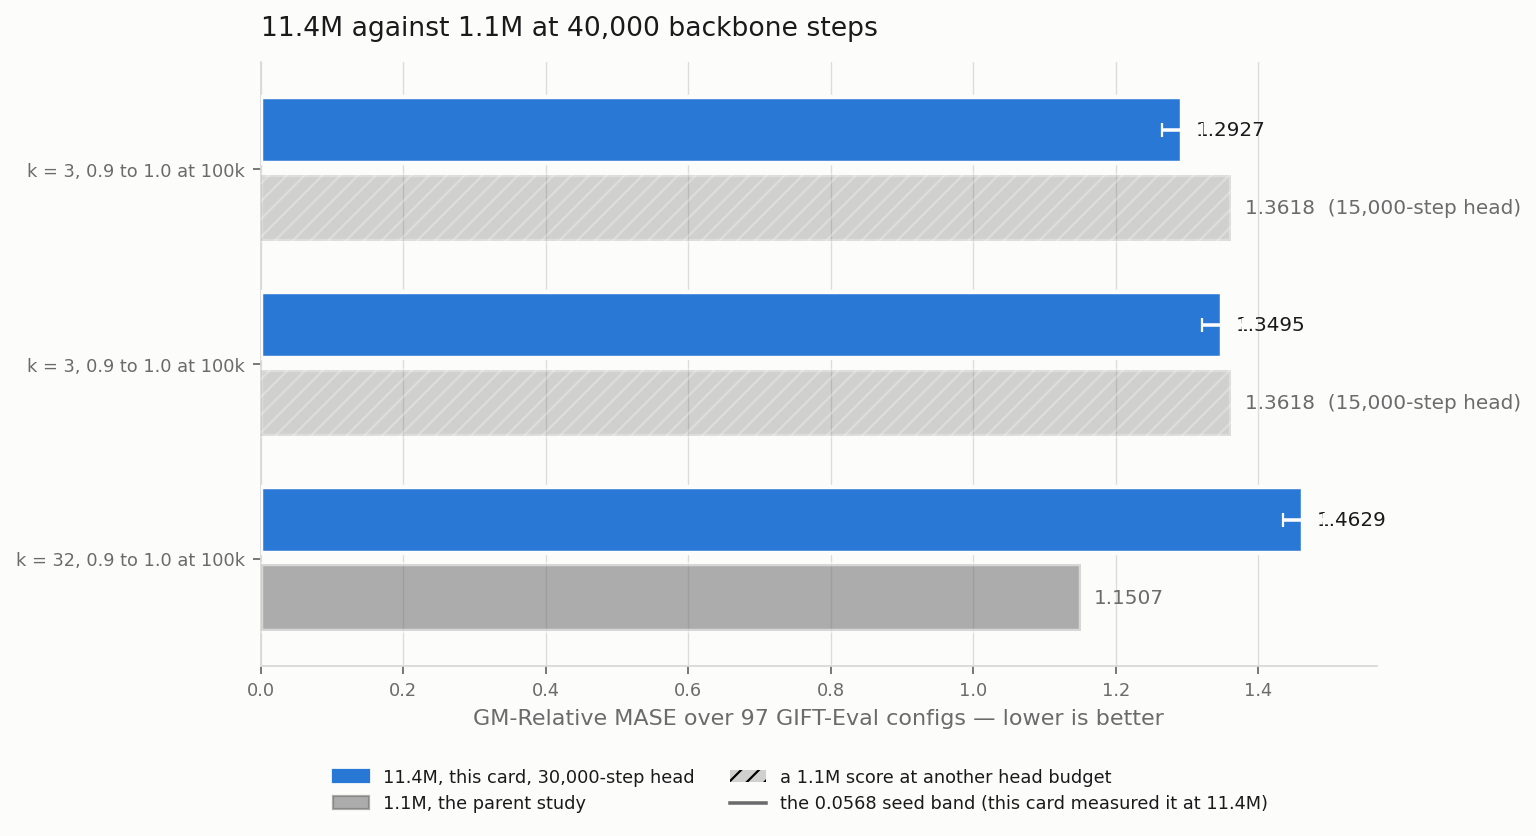
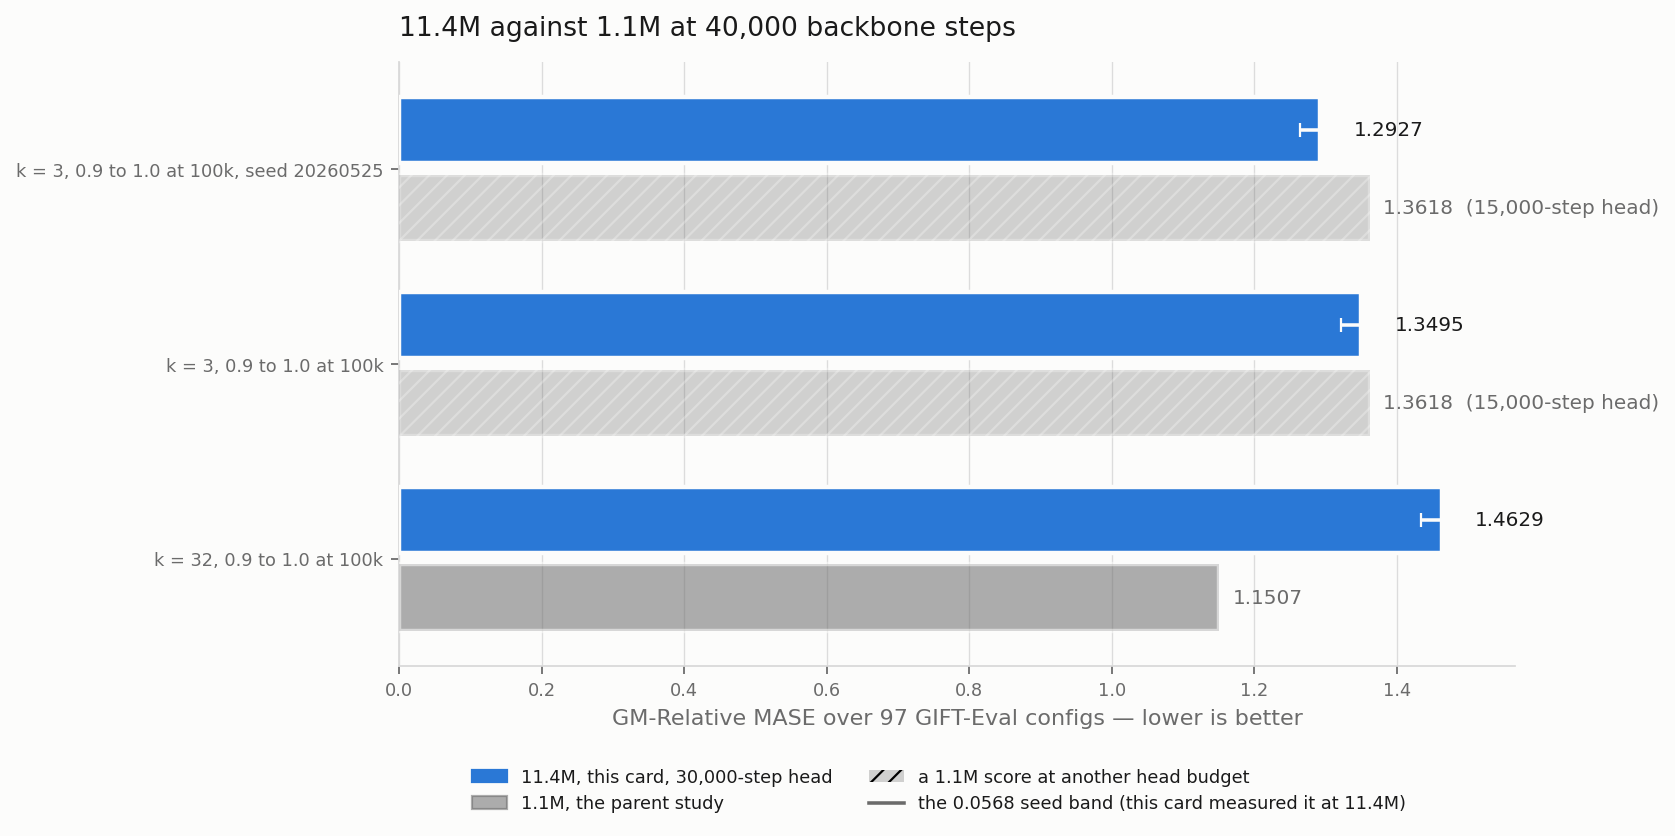
exp(#412): the rate bracket gets a figure, and a bar label names its seed
plot_rates.py draws the configuration-1 cell against the rate, with the
two 1e-3 seeds as a shaded pair. A rate arm inside that shade draws with
1e-3.

head_sweep.sh starts each head in the background. missing_heads.sh waits
for the CPU evaluation too, so a sweep that waits starts one arm every
4.6 hours.

queue_backbones.sh holds k32_r200_08, k8_r100_09 and k3_r100_09_lr17 on
gpu 0, largest memory need first.

diff --git a/reports/2026-09-06_moirai_small_size/scripts/plot_rates.py b/reports/2026-09-06_moirai_small_size/scripts/plot_rates.py
@@ -1,0 +1,112 @@
+#!/usr/bin/env python3
+"""The learning-rate bracket on configuration 1, at 40,000 backbone steps.
+
+WHY THIS FIGURE EXISTS. Every arm of this card trains at 1e-3, the Moirai
+recipe. The project does not use muP, and the trainer builds one AdamW group
+over all parameters, so a rate that fits `d_model` 64 need not fit 384. A size
+verdict taken at a rate that does not fit the width answers a question about
+the rate. Three arms move the rate alone and close that hole.
+
+HOW TO READ IT. The shaded band is the two seeds of configuration 1 at 1e-3,
+1.2927 and 1.3495. That pair is this card's seed band. A rate arm inside the
+shade draws with 1e-3. A rate arm below the shade beats it, and the report
+then repeats phase 1 at the winning rate.
+
+Usage:  plot_rates.py [--stop 40000] [--out plots/rates.png]
+"""
+from __future__ import annotations
+
+import argparse
+from pathlib import Path
+
+import matplotlib
+
+matplotlib.use("Agg")
+import matplotlib.pyplot as plt  # noqa: E402
+from matplotlib.lines import Line2D  # noqa: E402
+from matplotlib.patches import Patch  # noqa: E402
+
+import plot_style as S  # noqa: E402
+
+HERE = Path(__file__).resolve().parent
+STUDY = HERE.parent
+# The cell the bracket moves the rate on: configuration 1 and its repeat.
+BASE = ("k3_r100_09", "k3_r100_09b")
+
+
+def main():
+    p = argparse.ArgumentParser()
+    p.add_argument("--scores", default=str(STUDY / "results" / "scores.csv"))
+    p.add_argument("--arms", default=str(HERE / "arms.tsv"))
+    p.add_argument("--stop", type=int, default=S.STOP)
+    p.add_argument("--out", default=str(STUDY / "plots" / "rates.png"))
+    args = p.parse_args()
+
+    arms = {r["arm"]: r for r in S.read_arms(args.arms)}
+    scored = S.read_scores(args.scores, stop=args.stop)
+    band, band_src = S.effective_band(scored)
+
+    # Every arm of the configuration-1 cell that holds a score: the two 1e-3
+    # seeds and the rate arms. Nothing else shares the cell.
+    cell = [a for a, r in arms.items()
+            if r["k"] == "3" and r["reduce"] == "sum" and r["decay"] == "-"
+            and a in scored]
+    if not cell:
+        raise SystemExit(f"no configuration-1 arm holds a score at {args.stop}")
+    pair = sorted(scored[a] for a in BASE if a in scored)
+
+    fig, ax = plt.subplots(figsize=(8.4, 4.8))
+    fig.patch.set_facecolor(S.SURFACE)
+    ax.set_facecolor(S.SURFACE)
+
+    if len(pair) == 2:
+        ax.axhspan(pair[0], pair[1], color=S.MUTED, alpha=0.14, zorder=1)
+
+    xs, ys, tick = [], [], {}
+    for arm in cell:
+        rate = float(arms[arm]["lr"])
+        value = scored[arm]
+        xs.append(rate); ys.append(value)
+        # The tick reads the rate as `arms.tsv` writes it, not as `%g` prints
+        # a float. `1e-3` and `0.001` are one value and two labels.
+        tick[rate] = arms[arm]["lr"]
+        ax.errorbar(rate, value, yerr=band / 2, fmt="o", markersize=8,
+                    color=S.SERIES, ecolor=S.SERIES, elinewidth=1.4,
+                    capsize=4, zorder=3)
+        ax.annotate(f"{value:.4f}", (rate, value), xytext=(0, 13),
+                    textcoords="offset points", ha="center", fontsize=9,
+                    color=S.INK, zorder=4)
+
+    order = sorted(range(len(xs)), key=lambda i: xs[i])
+    ax.plot([xs[i] for i in order], [ys[i] for i in order], color=S.SERIES,
+            linewidth=1.6, alpha=0.55, zorder=2)
+
+    ax.set_xscale("log")
+    ax.set_xticks(sorted(set(xs)))
+    ax.set_xticklabels([tick[x] for x in sorted(set(xs))], fontsize=9)
+    ax.minorticks_off()
+    ax.set_xlabel("learning rate, one AdamW group over all parameters")
+    ax.set_ylabel("GM-Relative MASE — lower is better")
+    ax.set_title(f"the rate bracket on configuration 1, {args.stop:,} "
+                 "backbone steps at 11.4M", color=S.INK, fontsize=12,
+                 loc="left", pad=12)
+    S.tidy(ax)
+
+    handles = [Line2D([], [], color=S.SERIES, marker="o", linewidth=1.6,
+                      label=f"11.4M, k = 3, sum, 30,000-step head"),
+               Line2D([], [], color=S.SERIES, linewidth=1.4,
+                      label=f"the {band:.4f} seed band ({band_src})")]
+    if len(pair) == 2:
+        handles.insert(1, Patch(color=S.MUTED, alpha=0.14,
+                                label=f"the 1e-3 pair, {pair[0]:.4f} to "
+                                      f"{pair[1]:.4f}"))
+    fig.legend(handles=handles, frameon=False, fontsize=8, labelcolor=S.INK,
+               loc="upper center", ncol=2, bbox_to_anchor=(0.5, 0.0))
+
+    Path(args.out).parent.mkdir(parents=True, exist_ok=True)
+    fig.savefig(args.out, dpi=160, bbox_inches="tight", facecolor=S.SURFACE)
+    print(f"wrote {args.out} ({len(cell)} arm(s))")
+
+
+if __name__ == "__main__":
+    main()

diff --git a/reports/2026-09-06_moirai_small_size/scripts/plot_scores.py b/reports/2026-09-06_moirai_small_size/scripts/plot_scores.py
@@ -66,9 +66,10 @@ def main():
                 edgecolor=S.SURFACE, linewidth=2.0, zorder=3)
         ax.errorbar(value, y + h / 2 + 0.03, xerr=band / 2, fmt="none",
                     ecolor=S.SURFACE, elinewidth=1.6, capsize=3, zorder=4)
-        ax.annotate(f"{value:.4f}", (value, y + h / 2 + 0.03), xytext=(6, 0),
-                    textcoords="offset points", va="center", fontsize=9,
-                    color=S.INK)
+        # Past the error bar cap, never on it.
+        ax.annotate(f"{value:.4f}", (value + band / 2, y + h / 2 + 0.03),
+                    xytext=(6, 0), textcoords="offset points", va="center",
+                    fontsize=9, color=S.INK)
         ref = S.reference(arm, args.stop)
         if ref:
             # A hatched bar is a reference whose head budget is not this

diff --git a/reports/2026-09-06_moirai_small_size/scripts/plot_style.py b/reports/2026-09-06_moirai_small_size/scripts/plot_style.py
@@ -184,6 +184,8 @@ ARMS_COLUMNS = ("arm", "k", "reduce", "tau", "end", "ramp", "seed", "decay",
                 "lr")
 # The rate every published run of this cell trained at. Two arms bracket it.
 LR_DEFAULT = "1e-3"
+# The backbone seed every arm of this card carries, except the repeat.
+SEED_DEFAULT = "20260520"
 
 
 def read_arms(path):
@@ -238,6 +240,10 @@ def arm_label(row):
     # label that dropped it would name three curves the same.
     if row["lr"] != LR_DEFAULT:
         text += f", lr {row['lr']}"
+    # The repeat differs from configuration 1 in the seed alone, so a label
+    # that dropped it would name two bars the same.
+    if row["seed"] != SEED_DEFAULT:
+        text += f", seed {row['seed']}"
     return text
 
 
